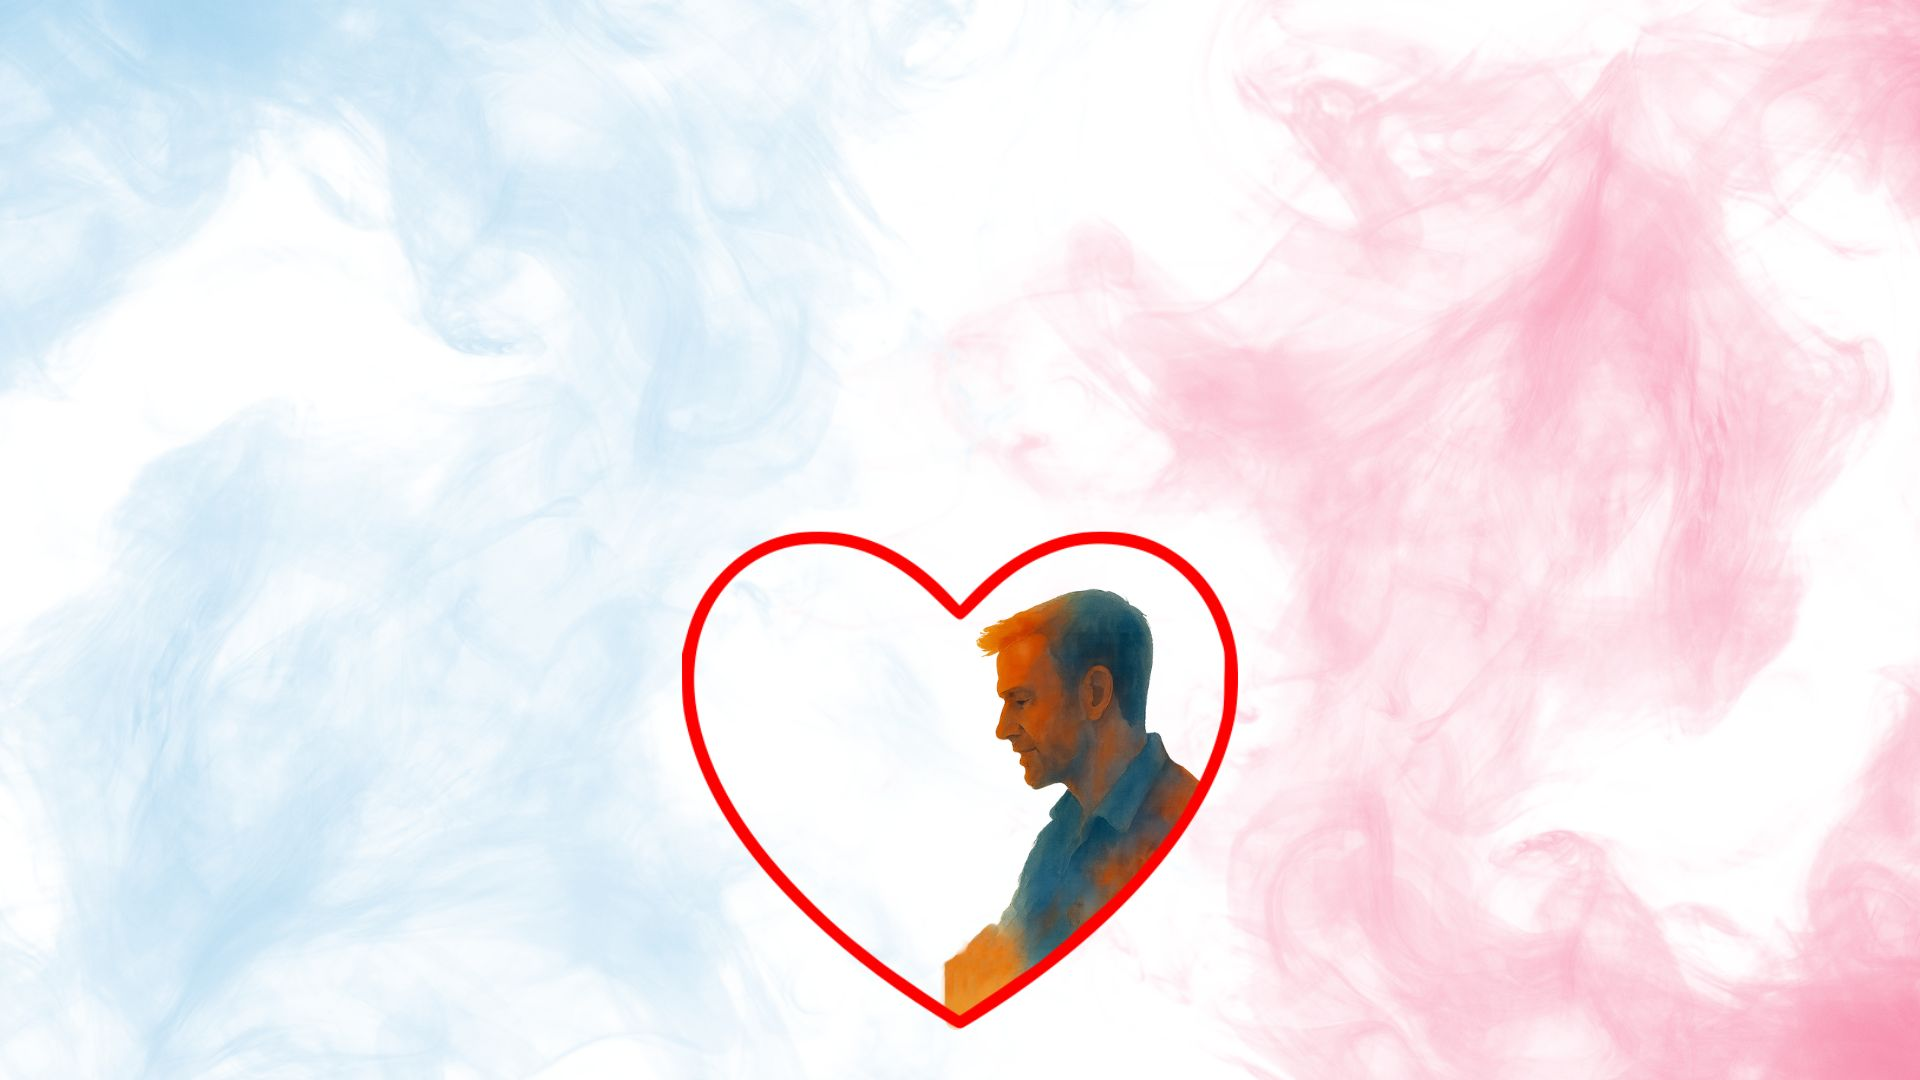
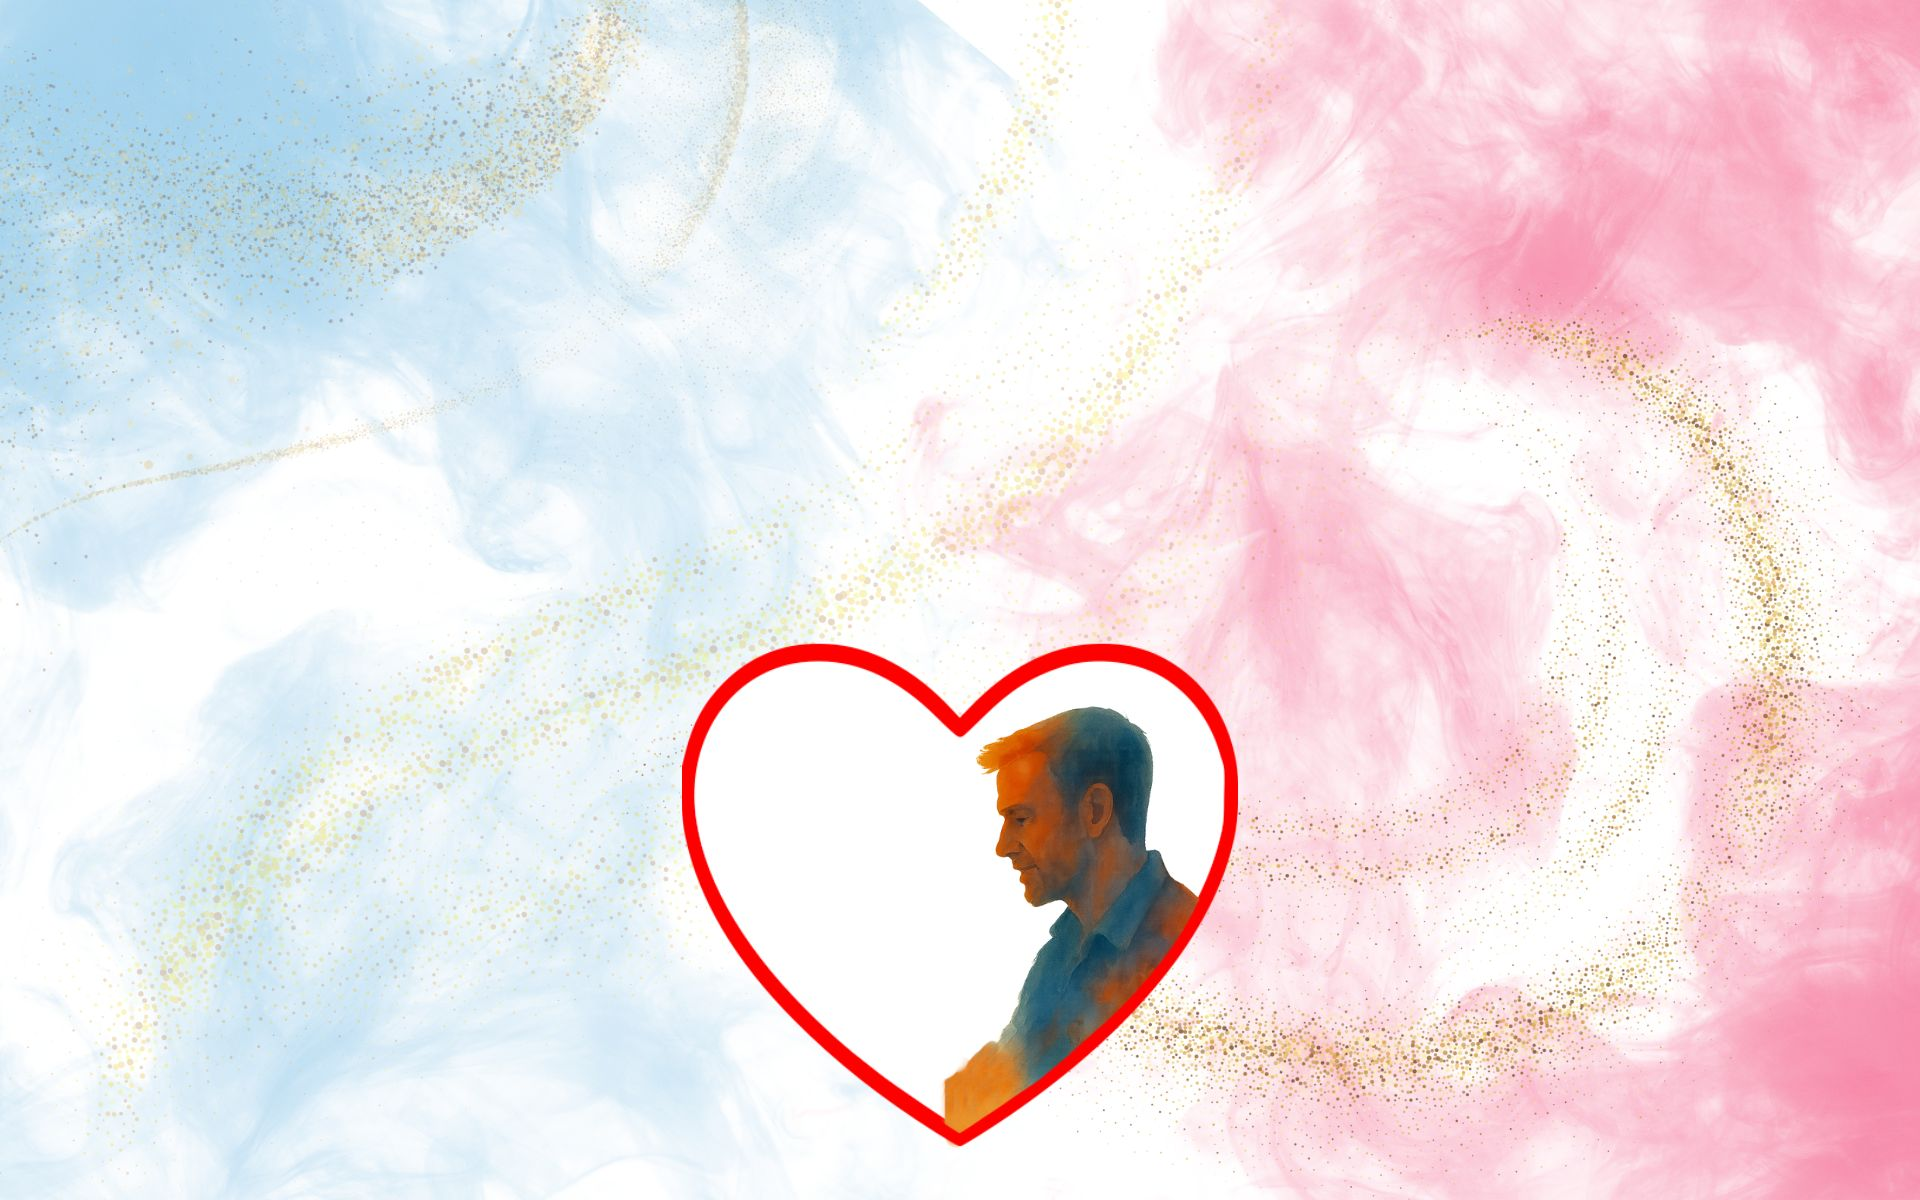
major update

diff --git a/main.js b/main.js
@@ -4,13 +4,13 @@
  * depends on jQuery>=1.7
  */
 // Original background image dimensions
-const PORTRAIT_IMAGE_HEIGHT = 1080;
+const PORTRAIT_IMAGE_HEIGHT = 1200;
 const PORTRAIT_IMAGE_WIDTH = 1920;
 const LANDSCAPE_IMAGE_HEIGHT = 1080;
 const LANDSCAPE_IMAGE_WIDTH = 2500;
 // Your point on the original image
-const PORTRAIT_SCRATCHER_X = 670;
-const PORTRAIT_SCRATCHER_Y = 515;
+const PORTRAIT_SCRATCHER_X = 679;
+const PORTRAIT_SCRATCHER_Y = 636;
 const LANDSCAPE_SCRATCHER_X = 697;
 const LANDSCAPE_SCRATCHER_Y = 157;
 let targetX;
@@ -218,7 +218,6 @@ var pct=0;
     let factor=1;
     const screenHeight = window.innerHeight;
     const screenWidth = window.innerWidth;
-    //console.log("screen " + screenHeight + " " + screenWidth);
     let scaledImageHeight, scaledImageWidth, imageLeftOffset, imageTopOffset,canvasX, canvasY;
     let scale;
     if (isLandscape) {
@@ -239,7 +238,7 @@ var pct=0;
         originalHeight = PORTRAIT_IMAGE_HEIGHT;
         targetX = PORTRAIT_SCRATCHER_X;
         targetY = PORTRAIT_SCRATCHER_Y;
-        factor=1.17;
+        factor=1;
         scale = screenHeight / originalHeight;
         scaledImageWidth = originalWidth * scale;
         scaledImageHeight = screenHeight;
@@ -249,7 +248,7 @@ var pct=0;
         canvasY = imageTopOffset + targetY * scale;
     }
        
-
+    console.log("screen " + screenHeight + " " + screenWidth + " scale " + screenHeight/screenWidth);
         
         scratcher.style.left = `${canvasX}px`;
         scratcher.style.top = `${canvasY}px`;
@@ -259,6 +258,7 @@ var pct=0;
              // Always use the original canvas size for scaling
         scratcher.width = canvasOriginalWidth * scale * factor;
         scratcher.height = canvasOriginalHeight * scale * factor;
+    console.log(scratcher.width + " "+ screenWidth);
 
         // For iOS safe area
         scratcher.style.height = `calc(${scratcher.height}px - constant(safe-area-inset-bottom))`;

diff --git a/scratcher2.js b/scratcher2.js
@@ -191,7 +191,7 @@ Scratcher = (function() {
         //can.getContext("2d", { willReadFrequently: true });
         ctx.lineWidth = 30;
         ctx.lineCap = ctx.lineJoin = 'round';
-        ctx.strokeStyle = 'rgba(255,255 ,255 , 0.1)'; //'rgba(0, 0, 0, 0.03)'; // can be any opaque color
+        ctx.strokeStyle = 'rgba(255,255 ,255 , 0.5)'; //'rgba(0, 0, 0, 0.03)'; // can be any opaque color
         
         if (fresh) {
             ctx.beginPath();
@@ -329,14 +329,14 @@ Scratcher = (function() {
     }
     function drawHeart(ctx, x, y, size, fore){
         ctx.save();
-        ctx.translate(x, y+2);
+        ctx.translate(x, y+1);
         ctx.rotate(0);
         
         // Define points for the full heart
         const start = {x: 0, y: 0};
-        const cp1 = {x: -size / 2.5, y: -size / 2};
-        const cp2 = {x: -size*1.2, y: size / 4.2};
-        const end = {x: 0, y: size*.96};
+        const cp1 = {x: -size / 2.1, y: -size / 1.7};
+        const cp2 = {x: -size*1.19, y: size / 3.2};
+        const end = {x: 0, y: size*1};
 
         ctx.strokeWidth = 0;
         ctx.beginPath();

diff --git a/index.html b/index.html
@@ -90,7 +90,7 @@
 <p><noscript>(This page requires JavaScript to run correctly. Please enable JavaScript from your Browser's settings.)</noscript></p>
 
 
-		<canvas id="scratcher" width="500" height="500" style="position: absolute; top: 434px; left: 905px; z-index: 10;"></canvas>
+		<canvas id="scratcher" width="565" height="565" style="position: absolute; top: 434px; left: 905px; z-index: 10;"></canvas>
 <!-- End scratcher -->
 <div id="scratcher-bottom-margin">
   <a href="https://artisartprintables.etsy.com" style="text-decoration:none">
